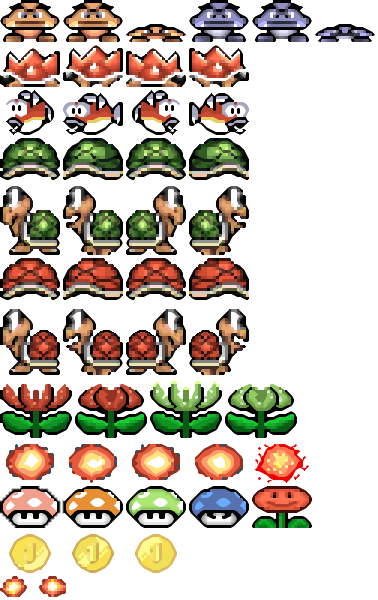
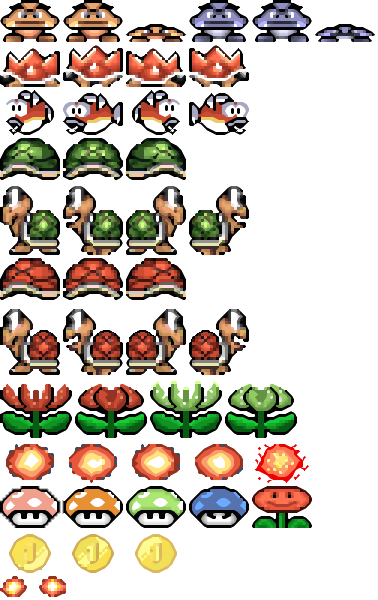
added mario walk animation

Changed region(s): [[0.0, 0.42, 0.6693, 0.51], [0.0, 0.21, 0.6693, 0.3]]

diff --git a/index.html b/index.html
@@ -74,8 +74,12 @@ class Graphics{
 	this.ctx.drawImage(this.enemies, 63 * (frame % 2 + 3 * color),0, 60, 42, x, y - 14, 60, 42);
   }
   
-  drawTurtle(x,y, frame, color, direction){    
-	this.ctx.drawImage(this.enemies, 63 * (frame % 2 + 2 * direction), 186 + 123 * color, 60, 66, x, y - 40, 60, 66);
+  drawTurtle(x,y, frame, color, direction){
+	this.ctx.drawImage(this.enemies, 63 * (frame % 2 + 2 * direction), 186 + 123 * color, 60, 66, x, y - 40, 60, 66);	
+  }
+  
+  drawShell(x,y, frame, color){
+    this.ctx.drawImage(this.enemies, 63 * (frame % 3), 138 + 120 * color, 60, 42, x, y - 16, 60, 42);
   }
   
   createBlueSkyGradient(){
@@ -207,17 +211,21 @@ class Game{
 		this.frame = 0;
 		this.treeAnimation = new Animation(3, 500);
 		this.coinAnimation = new Animation(3, 333);
+		this.turtleAnimation = new Animation(2, 300);
 		
 		this.screenX = 0;
 		this.level = parseLevel();
 		this.skyGradient = gfx.createBlueSkyGradient();
+		this.lastFacing = 1;
 	}
 	
 	update(time){
 	    let dt = time - (this.prevTime ?? time);
 	    this.prevTime = time;
+		if (dt > 1000) return;
 		this.treeAnimation.update(dt);
 		this.coinAnimation.update(dt);
+		this.turtleAnimation.update(dt);
 		
 		this.frame = this.frame-2;
 		if (this.frame <=0) this.frame = 41;
@@ -230,7 +238,7 @@ class Game{
 		let direction = this.controls.getDirection();
 		
 		this.screenX = this.screenX + 8 * direction;
-		let screenOffset = this.screenX % 60;
+		let screenOffset = ((this.screenX % 60)+60)%60; //+60) % 60 solves the negative modulo jump issue
 		let tileOffset = Math.floor(this.screenX / 60);
 		
 		for (let x=0; x<21;++x){
@@ -244,9 +252,9 @@ class Game{
 				   }else if (tileId == 102){
 					  this.gfx.drawWeed(60 * x - screenOffset, 42 * y + 16, this.treeAnimation.frame);
 				   }else if (tileId == 103){
-					  this.gfx.drawGoomba(60 * x - screenOffset, 42 * y + 16, this.treeAnimation.frame,0);
+					  this.gfx.drawGoomba(60 * x - screenOffset, 42 * y + 16, this.turtleAnimation.frame,0);
 				   }else if (tileId == 104 || tileId == 105){
-					  this.gfx.drawTurtle(60 * x - screenOffset, 42 * y + 16, this.treeAnimation.frame, 1-(tileId - 104),0);
+					  this.gfx.drawTurtle(60 * x - screenOffset, 42 * y + 16, this.turtleAnimation.frame, 1-(tileId - 104),0);
 				   }else if (tileId == 100){
 					  this.gfx.drawTree(60 * x - screenOffset, 42 * y + 16, this.treeAnimation.frame);
 				   }else if (tileId == 13){
@@ -259,7 +267,13 @@ class Game{
 			   }
 		   }
 		}
-		this.gfx.drawMario(400,381,0,0,1);
+		let facing = this.lastFacing;
+		if (direction !=0){
+			facing = direction == 1 ? 1 : 0;
+			this.lastFacing = facing;			
+		}
+		
+		this.gfx.drawMario(400,381,direction != 0 ? this.turtleAnimation.frame : 0,0,facing);
 	}
 }
 
